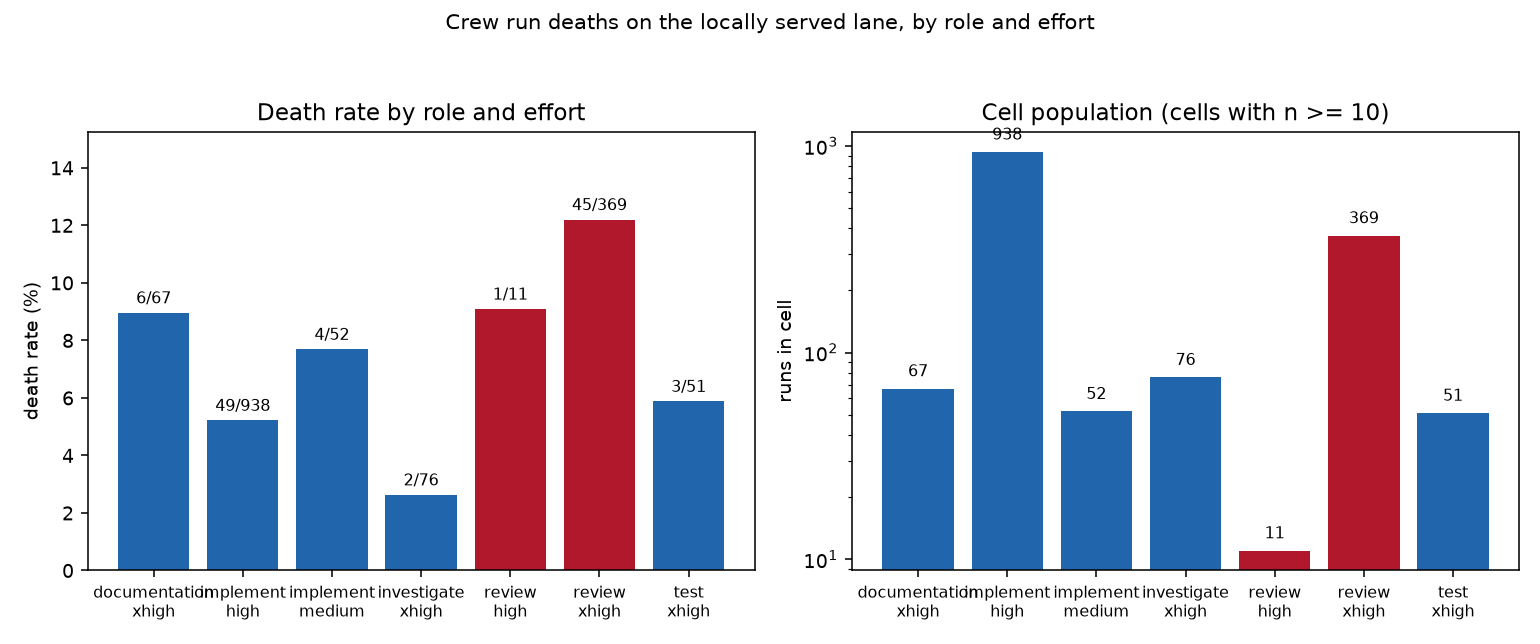
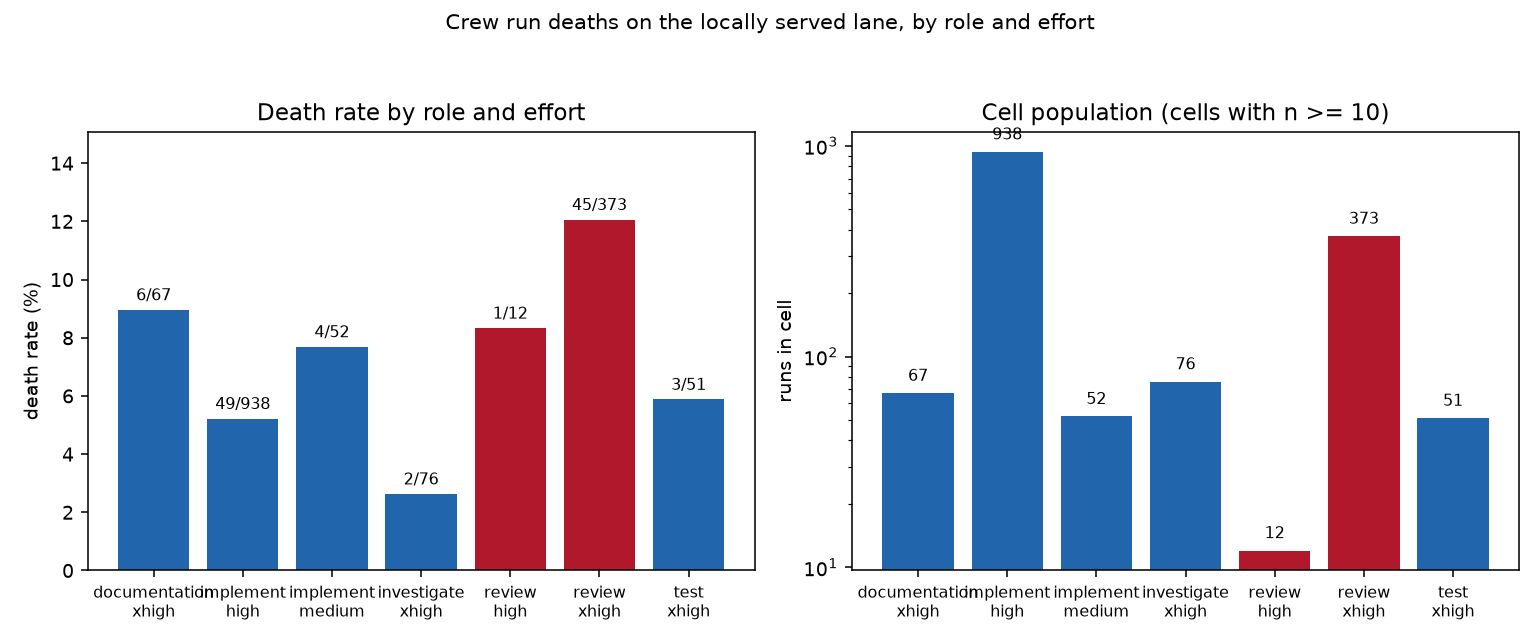
docs(crew): refresh the death census evidence and derive run liveness from the pointer
The census read a stored process_alive field from the live pointer, a field the
writer does not populate, so an in-flight run with no result record was counted
dead. Liveness is now derived from the pointer's own pid and recorded kernel
start tick through record_process_alive, and the running fixture names this
process's real pid and start tick so a stored-field read can no longer pass
both the running and the dead cases.

Regenerated the census over 1,577 recorded runs (110 dead), refreshed the
evidence table and the plan's landing record to review/xhigh 12.1% (45/373) and
review/high 8.3% (1/12), added the liveness note to the method, and regenerated
the figure from the data.

diff --git a/docs/evidence/archive/a-review-dies-where-nobody-is-looking-landed.html b/docs/evidence/archive/a-review-dies-where-nobody-is-looking-landed.html
@@ -7,13 +7,13 @@
   <meta name="reckon-type" content="evidence">
   <meta name="plan-slug" content="a-review-dies-where-nobody-is-looking-landed">
   <meta name="plan-title" content="A Review Dies Where Nobody Is Looking &mdash; landed evidence">
-  <meta name="plan-summary" content="Three sections of the plan, each recorded by its own node: the audit reads the state a document carries (§6 guard half), classification reads a run's deliverable before its process (§3), and the context fit is taken against the lane's recorded refusal boundary (§7).">
+  <meta name="plan-summary" content="Four sections of the plan, each recorded by its own node: the death census separates role from effort (§2), the audit reads the state a document carries (§6 guard half), classification reads a run's deliverable before its process (§3), and the context fit is taken against the lane's recorded refusal boundary (§7).">
   <meta name="plan-evidence-for" content="reckon:a-review-dies-where-nobody-is-looking">
-  <meta name="plan-verifies" content="reckon:a-review-dies-where-nobody-is-looking#s6,reckon:a-review-dies-where-nobody-is-looking#s3,reckon:a-review-dies-where-nobody-is-looking#s7">
+  <meta name="plan-verifies" content="reckon:a-review-dies-where-nobody-is-looking#s2,reckon:a-review-dies-where-nobody-is-looking#s6,reckon:a-review-dies-where-nobody-is-looking#s3,reckon:a-review-dies-where-nobody-is-looking#s7">
   <meta name="plan-recorded-at" content="2026-09-22">
   <meta name="plan-verdict" content="pass">
   <meta name="plan-environment" content="Linux workstation; Python 3.14 project venv; detached git worktree">
-  <meta name="plan-commits" content="910657ad,c8cc423a,2b14b314,e8991877,ed2bc107">
+  <meta name="plan-commits" content="910657ad,c8cc423a,2b14b314,e8991877,ed2bc107,4ed8ff18,50b523fa,673daa07">
   <meta name="plan-artifacts" content="reckon/doccheck.py,tests/test_audit.py,reckon/crew/recovery.py,tests/test_live_process_outranks_classification.py,reckon/crew/context_budget.py,reckon/crew/routing.py,tests/test_routing_surface.py,docs/research/data/clive-effective-window.json">
   <title>A Review Dies Where Nobody Is Looking &mdash; landed evidence | reckon</title>
   <link rel="stylesheet" href="/_shared/foundation.css">
@@ -318,14 +318,17 @@ EXIT=1</pre>
     ended. A run is <em>dead</em> when its terminal stream carries no <code>result</code> record and no
     live pointer reports its process alive; a run whose stream carries a result record is
     <em>completed</em>, and a stream without one whose pointer reads alive is <em>running</em> and is
-    never counted a death. The record's own success flag is not consulted: a failed turn still wrote a
+    never counted a death. Liveness is <em>derived</em> from the pointer's own pid and its recorded
+    kernel start tick, not read from a stored <code>process_alive</code> field: most live pointers
+    carry no such field, so a reader that trusted it would call a live run gone and add it to the
+    death count. The record's own success flag is not consulted: a failed turn still wrote a
     result record, so it still says the turn ended.</p>
 
     <figure>
       <img src="/reckon/figures/a-review-dies-where-nobody-is-looking/death-rate-by-role-and-effort.png"
            alt="Death rate per role-by-effort cell, beside the cell population, over the locally served lane">
       <figcaption>Death rate per role-by-effort cell (left) beside the population each rate is computed
-      over (right, log scale), over 1,572 recorded runs on the locally served lane.</figcaption>
+      over (right, log scale), over 1,577 recorded runs on the locally served lane.</figcaption>
     </figure>
 
     <h3>The measurement, by cell</h3>
@@ -335,12 +338,12 @@ EXIT=1</pre>
       </thead>
       <tbody>
         <tr><td>implement</td><td>high</td><td>worktree-full</td><td>938</td><td>49</td><td>5.2%</td></tr>
-        <tr><td>review</td><td>xhigh</td><td>read-only</td><td>369</td><td>45</td><td>12.2%</td></tr>
+        <tr><td>review</td><td>xhigh</td><td>read-only</td><td>373</td><td>45</td><td>12.1%</td></tr>
         <tr><td>investigate</td><td>xhigh</td><td>read-only</td><td>76</td><td>2</td><td>2.6%</td></tr>
         <tr><td>documentation</td><td>xhigh</td><td>worktree-full</td><td>67</td><td>6</td><td>9.0%</td></tr>
         <tr><td>implement</td><td>medium</td><td>worktree-full</td><td>52</td><td>4</td><td>7.7%</td></tr>
         <tr><td>test</td><td>xhigh</td><td>worktree-full</td><td>51</td><td>3</td><td>5.9%</td></tr>
-        <tr><td>review</td><td>high</td><td>read-only</td><td>11</td><td>1</td><td>9.1%</td></tr>
+        <tr><td>review</td><td>high</td><td>read-only</td><td>12</td><td>1</td><td>8.3%</td></tr>
       </tbody>
     </table>
     <p>The remaining cells hold one to three runs each and are in the census artifact's
@@ -349,12 +352,12 @@ EXIT=1</pre>
 
     <h3>What the separation shows</h3>
     <p>At a constant effort of <code>xhigh</code>, role separates the death rate by more than a
-    factor of four: <code>review</code> at 12.2% (45/369) against <code>investigate</code> at 2.6%
+    factor of four: <code>review</code> at 12.1% (45/373) against <code>investigate</code> at 2.6%
     (2/76) and <code>test</code> at 5.9% (3/51), all on the same effort. So role discriminates while
     effort is held fixed, which the earlier session's pooled observation could not separate because
     every review it held ran at <code>xhigh</code> and every implement at <code>high</code>.</p>
-    <p>Effort does not separate within <code>review</code>: <code>xhigh</code> at 12.2% (45/369)
-    against <code>high</code> at 9.1% (1/11), and the <code>high</code> cell is eleven runs, so the
+    <p>Effort does not separate within <code>review</code>: <code>xhigh</code> at 12.1% (45/373)
+    against <code>high</code> at 8.3% (1/12), and the <code>high</code> cell is twelve runs, so the
     interval it supports contains the <code>xhigh</code> rate outright. The plan's requirement that
     no fix be justified by effort is therefore unrefuted and better supported than before: the
     observed confound is partly broken by the role side, and the effort side has no cell large enough

diff --git a/docs/plans/a-review-dies-where-nobody-is-looking.html b/docs/plans/a-review-dies-where-nobody-is-looking.html
@@ -349,7 +349,7 @@
     <div class="r-comment-body"><p>classify_pointer already read a complete manifest before the abandoned arm; a lock test now fails if that order reverses, reddening all three phases under the reorder mutation; 34 classification tests pass; review 91</p></div>
 </div>
 <div class="r-comment" data-section="s2" data-id="c-run-r-20260923T021758002591-review-deaths-by-effort-and-role" data-who="reckon-ship" data-when="2026-09-23T04:40:00.000Z">
-    <div class="r-comment-body"><p>Census of every recorded run on the locally served lane: 1572 runs, 110 dead. At a constant effort of xhigh, role separates the rate 4.6x (review 12.2% 45/369 against investigate 2.6% 2/76 and test 5.9% 3/51), so role discriminates while effort is held fixed; within review, high (1/11) is too small to separate effort from role, so the plan&#39;s ban on justifying a fix by effort stands. Death is read from the terminal shape of the run&#39;s stream (no result record and no live pointer), with a manifest-complete positive control and the declared negative control reddening the completed fixture. 8 focused tests pass; artifact docs/research/data/review-death-by-effort.json</p></div>
+    <div class="r-comment-body"><p>Census of every recorded run on the locally served lane: 1577 runs, 110 dead. At a constant effort of xhigh, role separates the rate 4.6x (review 12.1% 45/373 against investigate 2.6% 2/76 and test 5.9% 3/51), so role discriminates while effort is held fixed; within review, high (1/12) is too small to separate effort from role, so the plan&#39;s ban on justifying a fix by effort stands. Death is read from the terminal shape of the run&#39;s stream (no result record and no live pointer); liveness is derived from the pointer&#39;s pid and recorded start tick rather than a stored field, so an in-flight run reads running rather than dead. A manifest-complete positive control is read not-dead and the declared negative control reddens the completed fixture. 9 focused tests pass; artifact docs/research/data/review-death-by-effort.json</p></div>
 </div>
 </section>
 </main>

diff --git a/docs/figures/a-review-dies-where-nobody-is-looking/death-rate-by-role-and-effort.py b/docs/figures/a-review-dies-where-nobody-is-looking/death-rate-by-role-and-effort.py
@@ -12,7 +12,7 @@ from pathlib import Path
 import matplotlib
 
 matplotlib.use("Agg")
-import matplotlib.pyplot as plt  # noqa: E402
+import matplotlib.pyplot as plt
 
 ROOT = Path(__file__).resolve().parents[3]
 DATA = ROOT / "docs/research/data/review-death-by-effort.json"
@@ -28,7 +28,6 @@ def main() -> int:
     labels = [f"{c['role']}\n{c['effort'] or 'unset'}" for c in cells]
     rates = [100.0 * (c["death_rate"] or 0.0) for c in cells]
     sizes = [c["size"] for c in cells]
-    dead = [c["dead"] for c in cells]
 
     figure, (left, right) = plt.subplots(1, 2, figsize=(11, 4.6))
 
